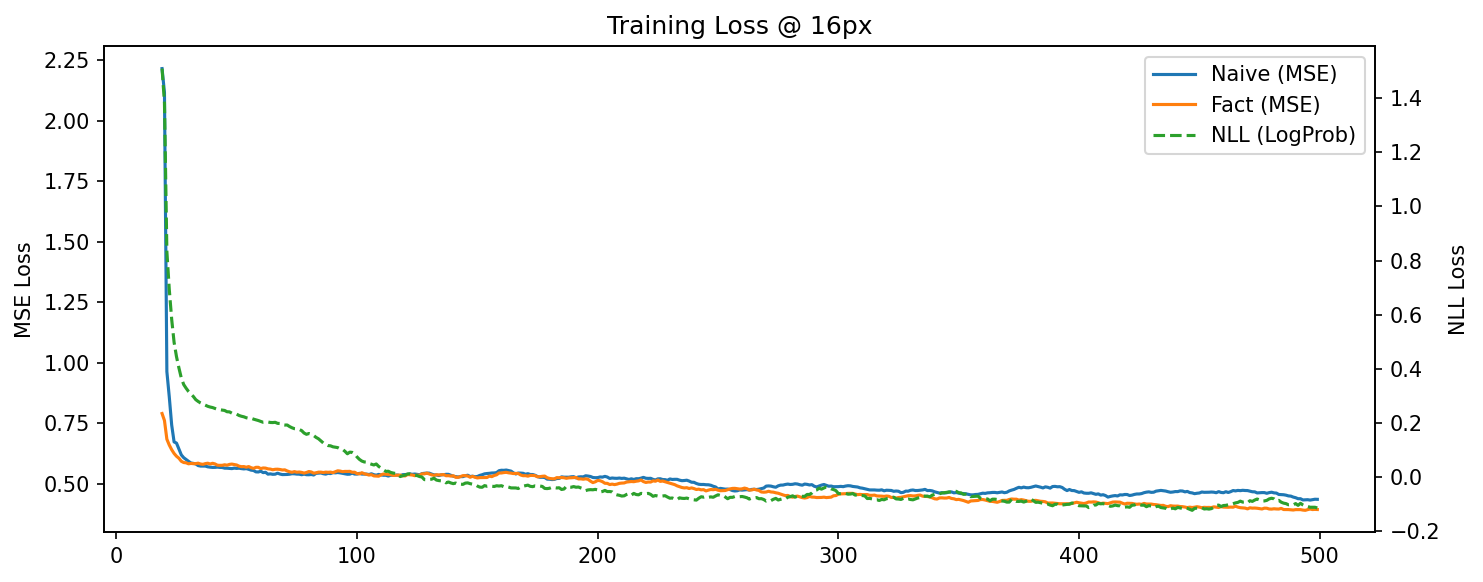
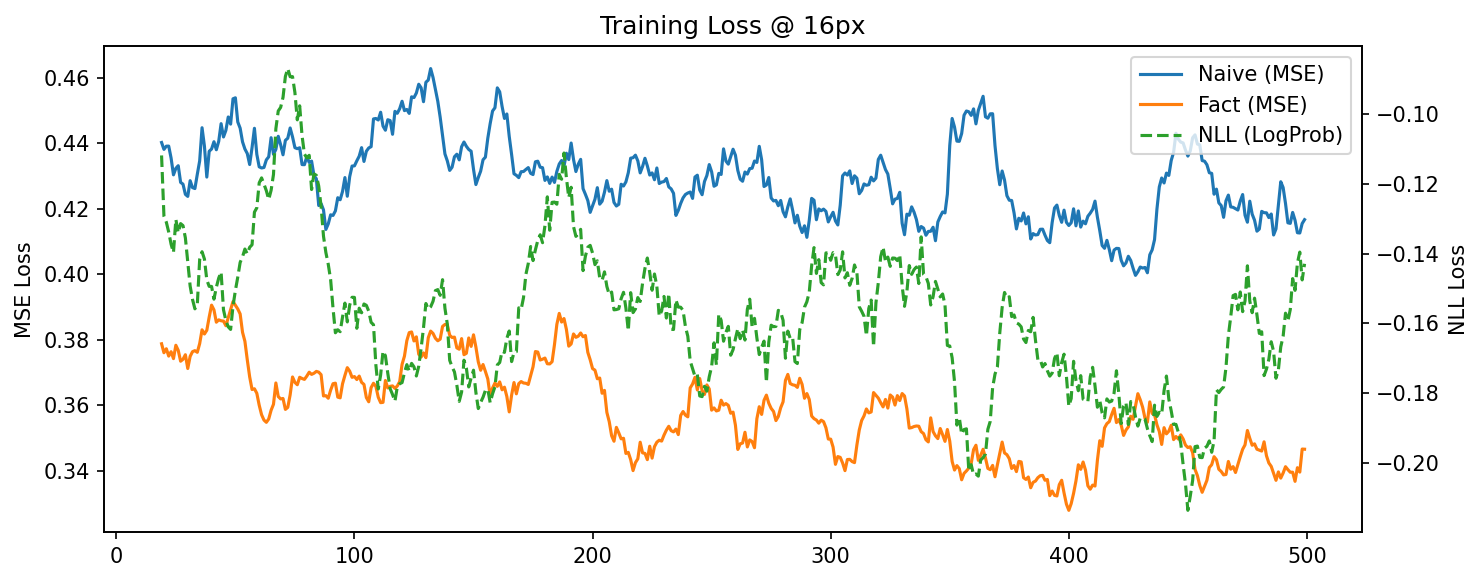
cleaned up more regressions from graph break removing forwards rewrite

diff --git a/ld_tformer.py b/ld_tformer.py
@@ -83,60 +83,83 @@ class HouseholderOrthogonal(nn.Module):
         return x @ Q.t() if inverse else x @ Q
 
 class RnRoPE(nn.Module):
-    """
-    Generalized RoPE for R^n.
-    Projects Topological Embeddings (Highway + Spatial) -> Rotation Frequencies.
-    """
-    def __init__(self, head_dim: int, topo_dim: int, num_reflections: int = 4):
+    def __init__(self, head_dim: int, topo_dim: int, rope_base: float = 10000.0):
         super().__init__()
         self.head_dim = head_dim
-        # We project the [Topo_Dim] coordinate vector into [Head_Dim/2] logical pairs.
-        # We use the Householder Orthogonal matrix to ensure this projection 
-        # preserves the geometric structure of the manifold.
-        self.ortho_proj = HouseholderOrthogonal(topo_dim, num_reflections)
+        self.topo_dim = topo_dim
+        self.freq_dim = head_dim // 2
         
-        # We need to map from Topo Space to Frequency Space.
-        # If Topo_Dim != Head_Dim/2, we need a Linear adapter.
-        # Or, strictly following the paper, we might just learn a mixing.
-        # Here we use a Linear layer initialized to project relevant dims.
-        self.freq_linear = nn.Linear(topo_dim, head_dim // 2, bias=False)
+        # Householder rotation for latent space projection
+        self.orthogonal = HouseholderOrthogonal(head_dim, num_reflections=head_dim//2)
+        
+        # Standard RoPE frequency bands
+        self.register_buffer(
+            'inv_freq',
+            1.0 / (rope_base ** (torch.arange(0, self.freq_dim, 2).float() / self.freq_dim))
+        )
+        
         self.param_init()
-
+    
     def param_init(self):
-        self.ortho_proj.param_init()
-        # Initialize frequency projection
-        init_linear(self.freq_linear)
-
-    def forward(self, x: torch.Tensor, topo_embeds: torch.Tensor) -> torch.Tensor:
+        self.orthogonal.param_init()
+    
+    def forward(self, q: torch.Tensor, k: torch.Tensor, topo_embeds: torch.Tensor):
         """
         Args:
-            x: [B, H, L, D]
-            topo_embeds: [B, L, Topo_Dim]
+            q: [B, H, L, D]
+            k: [B, H, L, D]
+            topo_embeds: [B, L, Topo_Dim] - absolute positions in topology space
         """
-        # 1. Project Coordinates to Frequencies
-        # topo_embeds is [B, L, T]. We want [B, L, D/2].
-        # We assume topo_embeds are 'log-space' coordinates (linear distance).
-        # We want to convert them to angular velocities.
-        freqs = self.freq_linear(topo_embeds.float())
+        B, H, L, D = q.shape
         
-        # 2. Construct Complex Rotations
-        # [B, L, D/2] -> [B, 1, L, D/2] for broadcasting over Heads
-        freqs = freqs.unsqueeze(1)
+        # 1. Rotate into frequency-friendly space
+        q = self.orthogonal(q.reshape(B*H*L, D), inverse=True).reshape(B, H, L, D)
+        k = self.orthogonal(k.reshape(B*H*L, D), inverse=True).reshape(B, H, L, D)
         
-        cos = freqs.cos()
-        sin = freqs.sin()
+        # 2. Compute frequencies from positions (Standard RoPE)
+        # For each topology dimension, compute outer product with frequency bands
+        freqs_list = []
+        for d in range(min(self.topo_dim, self.freq_dim)):
+            pos_d = topo_embeds[:, :, d]  # [B, L]
+            # Outer product: position × frequency bands
+            freq_d = torch.einsum('bl,f->blf', pos_d, self.inv_freq)
+            freqs_list.append(freq_d)
         
-        # 3. Apply Rotation (Standard pairs)
-        # x: [..., D] -> x1 (even), x2 (odd)
-        x1 = x[..., 0::2]
-        x2 = x[..., 1::2]
+        # Concatenate all dimensions
+        if freqs_list:
+            full_freqs = torch.cat(freqs_list, dim=-1)  # [B, L, ?]
+        else:
+            full_freqs = torch.zeros(B, L, self.freq_dim, device=q.device)
         
-        y1 = x1 * cos - x2 * sin
-        y2 = x1 * sin + x2 * cos
+        # Pad or truncate to freq_dim
+        if full_freqs.shape[-1] < self.freq_dim:
+            pad_size = self.freq_dim - full_freqs.shape[-1]
+            full_freqs = F.pad(full_freqs, (0, pad_size))
+        else:
+            full_freqs = full_freqs[..., :self.freq_dim]
         
-        # Interleave back
-        y = torch.stack([y1, y2], dim=-1).flatten(-2)
-        return y.to(x.dtype)
+        # 3. Create rotation matrices
+        # Duplicate for (cos, sin) on both halves
+        cos = full_freqs.cos().unsqueeze(1)  # [B, 1, L, freq_dim]
+        sin = full_freqs.sin().unsqueeze(1)
+        
+        # Expand to full head_dim by duplicating
+        cos = cos.repeat(1, 1, 1, 2)[..., :D]
+        sin = sin.repeat(1, 1, 1, 2)[..., :D]
+        
+        # 4. Apply rotary embedding
+        def rotate_half(x):
+            x1, x2 = x[..., :D//2], x[..., D//2:]
+            return torch.cat([-x2, x1], dim=-1)
+        
+        q_rot = (q * cos) + (rotate_half(q) * sin)
+        k_rot = (k * cos) + (rotate_half(k) * sin)
+        
+        # 5. Rotate back to original space
+        q_out = self.orthogonal(q_rot.reshape(B*H*L, D), inverse=False).reshape(B, H, L, D)
+        k_out = self.orthogonal(k_rot.reshape(B*H*L, D), inverse=False).reshape(B, H, L, D)
+        
+        return q_out, k_out
 
 # --- FFN & Blocks ---
 
@@ -863,8 +886,7 @@ class LDTformerAttentionKVC(nn.Module):
         # Apply RoPE using GLOBAL coordinates
         # topo_active[i] contains the ABSOLUTE highway position + spatial coords
         # So token at position 336 in the sequence gets highway=336, not highway=0
-        q = self.rope(q, topo_active)  # Uses global positions
-        k = self.rope(k, topo_active)  # Uses global positions
+        q, k = self.rope(q, k, topo_active)  # Uses global positions
         
         # 3. Cache Write (Side Effect)
         # Transform from [B, H, L, D] -> [B*L, H, 1, D] semantics for scatter writer
@@ -924,8 +946,7 @@ class LDTformerAttentionZC(nn.Module):
         # Apply RoPE using GLOBAL coordinates
         # topo_active[i] contains the ABSOLUTE highway position + spatial coords
         # So token at position 336 in the sequence gets highway=336, not highway=0
-        q = self.rope(q, topo_active)  # Uses global positions
-        k = self.rope(k, topo_active)  # Uses global positions
+        q, k = self.rope(q, k, topo_active)  # Uses global positions
         
         # Attention uses HEAP topology (via the mask)
         # The mask_mod already captures distances in the full heap
